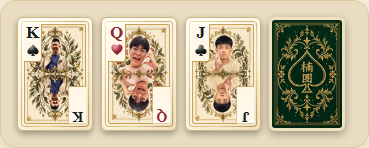
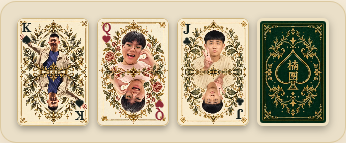
fix: restore full-size friend card artwork and proportional indices

diff --git a/static/night.css b/static/night.css
@@ -196,14 +196,14 @@ main#main{margin:0 auto;}
 .pot-total>small{font-size:9px;color:#a0b9a6;}
 .community-cards{display:flex;justify-content:center;gap:8px;}
 .playing-card{display:inline-block;position:relative;width:61px;height:86px;border-radius:6px;background:linear-gradient(135deg,#fffdf2,#f0e4ce);color:#26302b;box-shadow:0 3px 6px #0005;flex-shrink:0;border:1px solid #f6ecc9;vertical-align:middle;text-align:left;overflow:hidden;font-family:Georgia,"Times New Roman",serif;line-height:1;}
-.playing-card>b{position:absolute;top:5px;left:5px;font-size:19px;font-weight:650;line-height:.95;}
-.playing-card>b>i{display:block;font-size:14px;font-style:normal;margin-top:3px;}
-.playing-card>b.card-bottom{top:auto;left:auto;bottom:5px;right:5px;transform:rotate(180deg);font-size:17px;}
+.playing-card>b{position:absolute;top:5px;left:5px;font-size:var(--court-rank-font,19px);font-weight:650;line-height:.95;}
+.playing-card>b>i{display:block;font-size:var(--court-suit-font,14px);font-style:normal;margin-top:3px;}
+.playing-card>b.card-bottom{top:auto;left:auto;bottom:5px;right:5px;transform:rotate(180deg);font-size:var(--court-rank-font,17px);}
 .playing-card.red{color:#b92740;}
 .playing-card.small{width:38px;height:54px;border-radius:4px;}
-.playing-card.small>b{font-size:13px;top:3px;left:3px;}
-.playing-card.small>b>i{font-size:10px;margin-top:2px;}
-.playing-card.small>b.card-bottom{font-size:11px;bottom:3px;right:3px;top:auto;left:auto;}
+.playing-card.small>b{font-size:var(--court-rank-font,13px);top:3px;left:3px;}
+.playing-card.small>b>i{font-size:var(--court-suit-font,10px);margin-top:2px;}
+.playing-card.small>b.card-bottom{font-size:var(--court-rank-font,11px);bottom:3px;right:3px;top:auto;left:auto;}
 .playing-card.small .card-bottom i{display:none;}
 .playing-card.covered{background:repeating-linear-gradient(45deg,#902d50 0,#902d50 2px,#70213c 2px,#70213c 5px);border:3px solid #efe1c2;color:#e4c499;display:inline-flex;align-items:center;justify-content:center;box-shadow:0 3px 8px #0005;}
 .covered>span{font:23px Georgia,serif;border:1px solid #e5c79377;position:absolute;inset:4px;display:grid;place-items:center;border-radius:2px;background:#742341aa;}
@@ -225,8 +225,8 @@ main#main{margin:0 auto;}
 .seat-cards .playing-card:first-child{transform:rotate(-5deg);}
 .seat-cards .playing-card:last-child{transform:rotate(5deg);}
 .is-me .seat-cards .playing-card.small{width:47px;height:65px;}
-.is-me .seat-cards .playing-card.small>b{font-size:16px;}
-.is-me .seat-cards .playing-card.small>b.card-bottom{font-size:13px;}
+.is-me .seat-cards .playing-card.small>b{font-size:var(--court-rank-font,16px);}
+.is-me .seat-cards .playing-card.small>b.card-bottom{font-size:var(--court-rank-font,13px);}
 .seat-box{display:flex;align-items:center;gap:8px;min-height:57px;padding:9px 11px;position:relative;border:1px solid #6f526e;border-radius:10px;box-shadow:0 7px 20px #0005;text-align:left;}
 .seat-box>.avatar{width:29px;height:29px;font-size:12px;}
 .seat-details{flex:1;min-width:0;}
@@ -321,8 +321,8 @@ dialog{color:var(--ink);overflow-y:auto;box-shadow:0 25px 90px #0008;}
 .history-result>strong{text-align:right;font-size:14px;}
 .history-holes{display:flex;gap:3px;min-height:29px;}
 .history-holes>.playing-card.small{width:23px;height:32px;}
-.history-holes>.playing-card.small>b{font-size:10px;top:2px;left:2px;}
-.history-holes>.playing-card.small>b>i{font-size:8px;margin-top:1px;}
+.history-holes>.playing-card.small>b{font-size:var(--court-rank-font,10px);top:2px;left:2px;}
+.history-holes>.playing-card.small>b>i{font-size:var(--court-suit-font,8px);margin-top:1px;}
 .history-holes>.playing-card.small .card-bottom{display:none;}
 .side-pots{display:flex;flex-direction:column;gap:7px;margin:14px 0 4px;}
 .history-empty{text-align:center;}
@@ -381,9 +381,9 @@ main#main{padding:28px 27px 12px;}
 .room-heading p i{padding:0 2px;}
 .board-area{width:340px;top:220px;}
 .playing-card,.board-placeholder{width:49px;height:71px;}
-.playing-card>b{font-size:17px;}
-.playing-card>b>i{font-size:12px;}
-.playing-card>b.card-bottom{font-size:14px;}
+.playing-card>b{font-size:var(--court-rank-font,17px);}
+.playing-card>b>i{font-size:var(--court-suit-font,12px);}
+.playing-card>b.card-bottom{font-size:var(--court-rank-font,14px);}
 .playing-card>b.card-bottom>i{display:none;}
 .pot-total>strong{font-size:26px;}
 .community-cards{gap:6px;}
@@ -396,8 +396,8 @@ main#main{padding:28px 27px 12px;}
 .seat-details>strong{font-size:10px;}
 .seat-details>b{font-size:16px;}
 .table-seat .playing-card.small{width:32px;height:47px;}
-.table-seat .playing-card.small>b{font-size:12px;}
-.table-seat .playing-card.small>b.card-bottom{font-size:10px;}
+.table-seat .playing-card.small>b{font-size:var(--court-rank-font,12px);}
+.table-seat .playing-card.small>b.card-bottom{font-size:var(--court-rank-font,10px);}
 .is-me .seat-cards .playing-card.small{width:43px;height:60px;}
 .spot-2{left:0;}
 .spot-4{right:0;}
@@ -498,9 +498,9 @@ main#main{padding:28px 27px 12px;}
 .felt-wordmark>span{font-size:6px;letter-spacing:3px;margin-top:5px;}
 .pot-total{gap:6px;}
 .community-cards>.playing-card,.board-placeholder{border-radius:4px;}
-.community-cards>.playing-card>b{font-size:12px;top:3px;left:3px;}
-.community-cards>.playing-card>b>i{font-size:9px;margin-top:2px;}
-.community-cards>.playing-card>b.card-bottom{font-size:10px;bottom:3px;right:3px;top:auto;left:auto;}
+.community-cards>.playing-card>b{font-size:var(--court-rank-font,12px);top:3px;left:3px;}
+.community-cards>.playing-card>b>i{font-size:var(--court-suit-font,9px);margin-top:2px;}
+.community-cards>.playing-card>b.card-bottom{font-size:var(--court-rank-font,10px);bottom:3px;right:3px;top:auto;left:auto;}
 .board-placeholder{font-size:20px;}
 .street-label{letter-spacing:1px;}
 .winner-line{margin:6px 1px 0;line-height:1.7;max-height:35px;overflow-y:auto;}
@@ -518,14 +518,14 @@ main#main{padding:28px 27px 12px;}
 .seat-online{height:3px;width:3px;top:5px;right:5px;}
 .seat-caption{padding-top:5px;min-height:18px;}
 .table-seat .playing-card.small{height:40px;width:28px;border-radius:3px;}
-.table-seat .playing-card.small>b{font-size:11px;top:2px;left:2px;}
-.table-seat .playing-card.small>b>i{font-size:8px;margin-top:1px;}
-.table-seat .playing-card.small>b.card-bottom{font-size:9px;bottom:2px;right:2px;}
+.table-seat .playing-card.small>b{font-size:var(--court-rank-font,11px);top:2px;left:2px;}
+.table-seat .playing-card.small>b>i{font-size:var(--court-suit-font,8px);margin-top:1px;}
+.table-seat .playing-card.small>b.card-bottom{font-size:var(--court-rank-font,9px);bottom:2px;right:2px;}
 .table-seat .covered.small>span{font-size:13px;inset:2px;}
 .is-me .seat-cards .playing-card.small{height:57px;width:40px;}
-.is-me .seat-cards .playing-card.small>b{font-size:14px;top:3px;left:3px;}
-.is-me .seat-cards .playing-card.small>b>i{font-size:11px;}
-.is-me .seat-cards .playing-card.small>b.card-bottom{font-size:11px;top:auto;left:auto;}
+.is-me .seat-cards .playing-card.small>b{font-size:var(--court-rank-font,14px);top:3px;left:3px;}
+.is-me .seat-cards .playing-card.small>b>i{font-size:var(--court-suit-font,11px);}
+.is-me .seat-cards .playing-card.small>b.card-bottom{font-size:var(--court-rank-font,11px);top:auto;left:auto;}
 .dealer-disc{width:19px;height:19px;border-width:1px;font-size:10px;top:-7px;left:-6px;}
 .seat-bet{font-size:8px;gap:4px;bottom:-18px;}
 .seat-bet>i{height:12px;width:12px;border-width:2px;}
@@ -2999,7 +2999,7 @@ body:has(.live-room) #toast{bottom:auto;top:8px;pointer-events:none;max-width:mi
 .holdem-room .seat-caption{font-size:10px;min-height:15px;line-height:1.3;}
 .holdem-room .seat-cards{height:30px;margin-bottom:4px;}
 .holdem-room .table-seat .playing-card.small{width:20px;height:28px;}
-.holdem-room .table-seat .playing-card.small>b{font-size:8px;}
+.holdem-room .table-seat .playing-card.small>b{font-size:var(--court-rank-font,8px);}
 .holdem-room .table-seat .playing-card.small>b.card-bottom{display:none;}
 .holdem-room .spot-3{top:0;}
 .holdem-room .spot-2,.holdem-room .spot-4{top:36px;}
@@ -4352,9 +4352,9 @@ html body #game-settings-modal :is(th,td){border-bottom-color:var(--cream-line);
 :is(#app,#modal,#social-root) .arcade-blackjack .blackjack-bet-panel .point-stepper :is(.button,input){min-height:44px;height:44px;margin:0;}
 :is(#app,#modal,#social-root) .arcade-blackjack .blackjack-bet-panel .between-buttons .button{min-height:44px;padding-block:0;}
 :is(#app,#modal,#social-root) .arcade-blackjack:has(.blackjack-bet-panel) .blackjack-dealer .playing-card{width:38px;height:54px;border-radius:4px;}
-:is(#app,#modal,#social-root) .arcade-blackjack:has(.blackjack-bet-panel) .blackjack-dealer .playing-card>b{font-size:13px;top:3px;left:3px;}
-:is(#app,#modal,#social-root) .arcade-blackjack:has(.blackjack-bet-panel) .blackjack-dealer .playing-card>b>i{font-size:10px;margin-top:2px;}
-:is(#app,#modal,#social-root) .arcade-blackjack:has(.blackjack-bet-panel) .blackjack-dealer .playing-card>b.card-bottom{font-size:11px;bottom:3px;right:3px;top:auto;left:auto;}
+:is(#app,#modal,#social-root) .arcade-blackjack:has(.blackjack-bet-panel) .blackjack-dealer .playing-card>b{font-size:var(--court-rank-font,13px);top:3px;left:3px;}
+:is(#app,#modal,#social-root) .arcade-blackjack:has(.blackjack-bet-panel) .blackjack-dealer .playing-card>b>i{font-size:var(--court-suit-font,10px);margin-top:2px;}
+:is(#app,#modal,#social-root) .arcade-blackjack:has(.blackjack-bet-panel) .blackjack-dealer .playing-card>b.card-bottom{font-size:var(--court-rank-font,11px);bottom:3px;right:3px;top:auto;left:auto;}
 :is(#app,#modal,#social-root) .arcade-table.arcade-blackjack:has(.blackjack-bet-panel) .arcade-surface .blackjack-dealer{padding-block:6px;row-gap:4px;}
 :is(#app,#modal,#social-root) .arcade-blackjack:has(.blackjack-bet-panel) .blackjack-shoe{margin-top:0;}
 }
@@ -4534,19 +4534,20 @@ html:where([data-card-back=crimson],[data-card-back=jade]) :is(#app,#modal,#soci
 :is(#app,#modal,#social-root) .playing-card[data-rank=K]{--pc-face:url(/assets/pieces/card-k.webp?v=cb97bedc5870);}
 :is(#app,#modal,#social-root) .playing-card:is([data-suit=s],[data-suit=c]){--pc-win:linear-gradient(#f4f2e4,#d9e0cc);}
 :is(#app,#modal,#social-root) .playing-card:is([data-suit=h],[data-suit=d]){--pc-win:linear-gradient(#fbefe6,#efd3c6);}
-html[data-ui=current] :is(#app,#modal,#social-root) .playing-card[data-suit]:is([data-rank=J],[data-rank=Q],[data-rank=K]){--pc-c1:none;}
-html[data-ui=current] :is(#app,#modal,#social-root) .playing-card[data-suit]:is([data-rank=J],[data-rank=Q],[data-rank=K])::before{content:"";position:absolute;top:5.6%;bottom:5.6%;left:8%;right:8%;border:1px solid #c9a158;border-radius:2px;pointer-events:none;background:var(--pc-face) center/100% 100% no-repeat,var(--pc-win);}
-html[data-ui=current] :is(#app,#modal,#social-root) .playing-card[data-suit]:is([data-rank=J],[data-rank=Q],[data-rank=K])>b{top:5.6%;left:8%;min-width:25%;min-height:33.6%;padding:1px 1px 0;text-align:center;background:linear-gradient(#fffbf0,#fff5e3);border:solid #c9a158;border-width:0 1px 1px 0;border-radius:0 0 3px 0;}
-html[data-ui=current] :is(#app,#modal,#social-root) .playing-card[data-suit]:is([data-rank=J],[data-rank=Q],[data-rank=K])>b.card-bottom{top:auto;left:auto;bottom:5.6%;right:8%;}
-html[data-ui=current] :is(#app,#modal,#social-root) .playing-card[data-suit]:is([data-rank=J],[data-rank=Q],[data-rank=K])>b>i{background-position:50% 55%;}
+html[data-ui=current] :is(#app,#modal,#social-root) .playing-card[data-suit]:is([data-rank=J],[data-rank=Q],[data-rank=K]){--pc-c1:none;--court-rank-font:max(8px,17cqw);--court-suit-font:max(5px,13cqw);container-type:inline-size;}
+html[data-ui=current] :is(#app,#modal,#social-root) .playing-card[data-suit][data-rank=J]{--court-rank-font:max(8px,20cqw);--court-suit-font:max(5px,11cqw);}
+html[data-ui=current] :is(#app,#modal,#social-root) .playing-card[data-suit]:is([data-rank=J],[data-rank=Q],[data-rank=K])::before{content:"";position:absolute;inset:0;border:0;border-radius:inherit;pointer-events:none;background:var(--pc-face) center/cover no-repeat,var(--pc-win);}
+html[data-ui=current] :is(#app,#modal,#social-root) .playing-card[data-suit]:is([data-rank=J],[data-rank=Q],[data-rank=K])>b{top:3.5%;left:3.5%;width:max(8px,18cqw);min-width:0;min-height:0;padding:0;text-align:center;line-height:1;background:none;border:0;border-radius:0;text-shadow:0 0 1px #fff6e4;}
+html[data-ui=current] :is(#app,#modal,#social-root) .playing-card[data-suit]:is([data-rank=J],[data-rank=Q],[data-rank=K])>b.card-bottom{top:auto;left:auto;bottom:3.5%;right:3.5%;}
+html[data-ui=current] :is(#app,#modal,#social-root) .playing-card[data-suit]:is([data-rank=J],[data-rank=Q],[data-rank=K])>b>i{display:block;width:var(--court-suit-font);height:var(--court-suit-font);margin:1px auto 0;background:var(--pc-ink);mask:var(--pc-suit) center/contain no-repeat;}
 @media (max-width:760px){
 :is(#app,#modal,#social-root) .holdem-room .table-seat:not(.is-me) .playing-card.small[data-suit]{--pc-frame:var(--pc-frame-sm);--pc-pos:right 2px bottom 2px;--pc-cs:48%;--pc-m1:none;}
-:is(#app,#modal,#social-root) .holdem-room .table-seat:not(.is-me) .playing-card.small[data-suit]>b{top:1px;left:2px;font-size:11.5px;line-height:1;}
-:is(#app,#modal,#social-root) .holdem-room .table-seat:not(.is-me) .playing-card.small[data-rank=T]>b{left:1px;font-size:10px;letter-spacing:-.1em;}
+:is(#app,#modal,#social-root) .holdem-room .table-seat:not(.is-me) .playing-card.small[data-suit]>b{top:1px;left:2px;font-size:var(--court-rank-font,11.5px);line-height:1;}
+:is(#app,#modal,#social-root) .holdem-room .table-seat:not(.is-me) .playing-card.small[data-rank=T]>b{left:1px;font-size:var(--court-rank-font,10px);letter-spacing:-.1em;}
 :is(#app,#modal,#social-root) .holdem-room .table-seat:not(.is-me) .playing-card.small[data-suit]>b>i{display:none;}
-html[data-ui=current] :is(#app,#modal,#social-root) .holdem-room .table-seat:not(.is-me) .playing-card.small[data-suit]:is([data-rank=J],[data-rank=Q],[data-rank=K])::before{inset:1px;border:0;border-radius:2px;background:var(--pc-face) 5px 2px/16px auto no-repeat,var(--pc-win);}
-html[data-ui=current] :is(#app,#modal,#social-root) .holdem-room .table-seat:not(.is-me) .playing-card.small[data-suit]:is([data-rank=J],[data-rank=Q],[data-rank=K])>b{top:1px;left:1px;min-width:0;min-height:0;width:10px;height:20px;padding:1px 0 0;border-width:0 .5px .5px 0;}
-html[data-ui=current] :is(#app,#modal,#social-root) .holdem-room .table-seat:not(.is-me) .playing-card.small[data-suit]:is([data-rank=J],[data-rank=Q],[data-rank=K])>b>i{display:block;font-size:7px;height:7px;margin-top:1px;}
+html[data-ui=current] :is(#app,#modal,#social-root) .holdem-room .table-seat:not(.is-me) .playing-card.small[data-suit]:is([data-rank=J],[data-rank=Q],[data-rank=K])::before{inset:0;border:0;border-radius:inherit;background:var(--pc-face) center/cover no-repeat,var(--pc-win);}
+html[data-ui=current] :is(#app,#modal,#social-root) .holdem-room .table-seat:not(.is-me) .playing-card.small[data-suit]:is([data-rank=J],[data-rank=Q],[data-rank=K])>b{top:3.5%;left:3.5%;width:max(8px,18cqw);min-width:0;min-height:0;height:auto;padding:0;border:0;}
+html[data-ui=current] :is(#app,#modal,#social-root) .holdem-room .table-seat:not(.is-me) .playing-card.small[data-suit]:is([data-rank=J],[data-rank=Q],[data-rank=K])>b>i{display:block;font-size:var(--court-suit-font);width:var(--court-suit-font);height:var(--court-suit-font);margin:1px auto 0;}
 }
 :is(#app,#modal,#social-root) .night-lobby .game-catalog{container:gamecat/inline-size;}
 :is(#app,#modal,#social-root) .night-lobby .game-catalog>.game-choice{display:grid;grid-template-rows:auto auto auto;align-content:start;padding:0 0 8px;}

diff --git a/docs/ASSETS.md b/docs/ASSETS.md
@@ -58,4 +58,6 @@
 - 預設牌背：[card-back-friends.webp](../static/assets/pieces/card-back-friends.webp)，256×384。
 - 生成提示與輸入角色見 [朋友牌組提示詞](design-proposals/asset-prompts/friends-deck.txt)。WebP 僅做等比縮小與編碼；以內容指紋發送，取代先前人物圖。
 
-實際卡牌元件驗收：[手機](screenshots/friends-cards-phone.png)、[桌機](screenshots/friends-cards-desktop.png)。
+人物牌使用滿版等比 cover，移除內縮圖框與大片角標底板。角標跟隨牌寬縮放，J 使用較小花色；花色沿用現行 SVG 的輪廓作單色遮罩，接近確認稿的平面印刷樣式。手機對手牌亦使用滿版圖，不再固定為 16px。本次僅調整元件比例，未再次生成或替換人物素材。
+
+實際卡牌元件驗收（使用正式渲染函式的隔離測試；桌機為放大檢視）：[手機](screenshots/friends-cards-phone.png)、[桌機](screenshots/friends-cards-desktop.png)。
